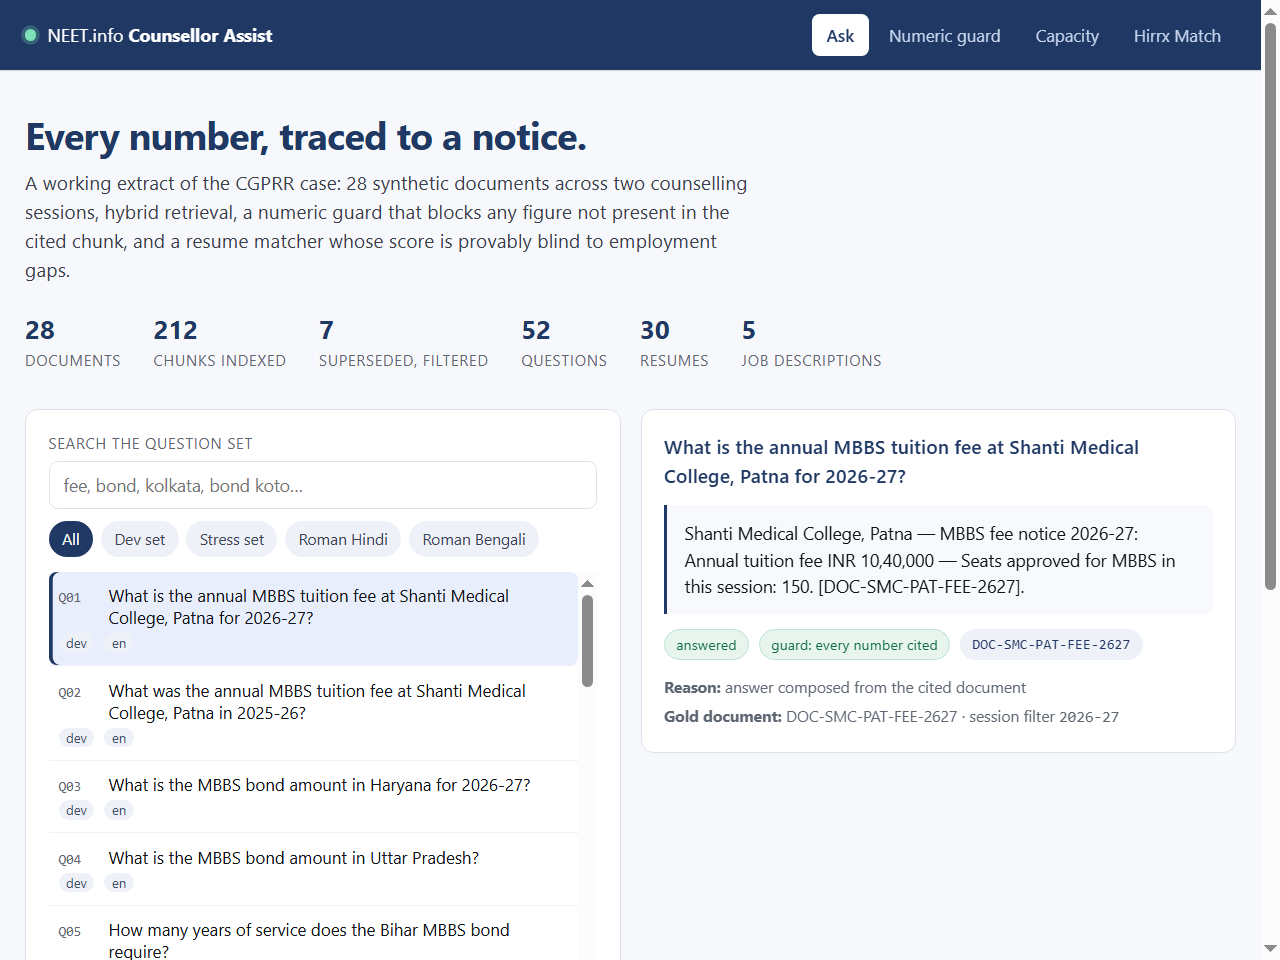
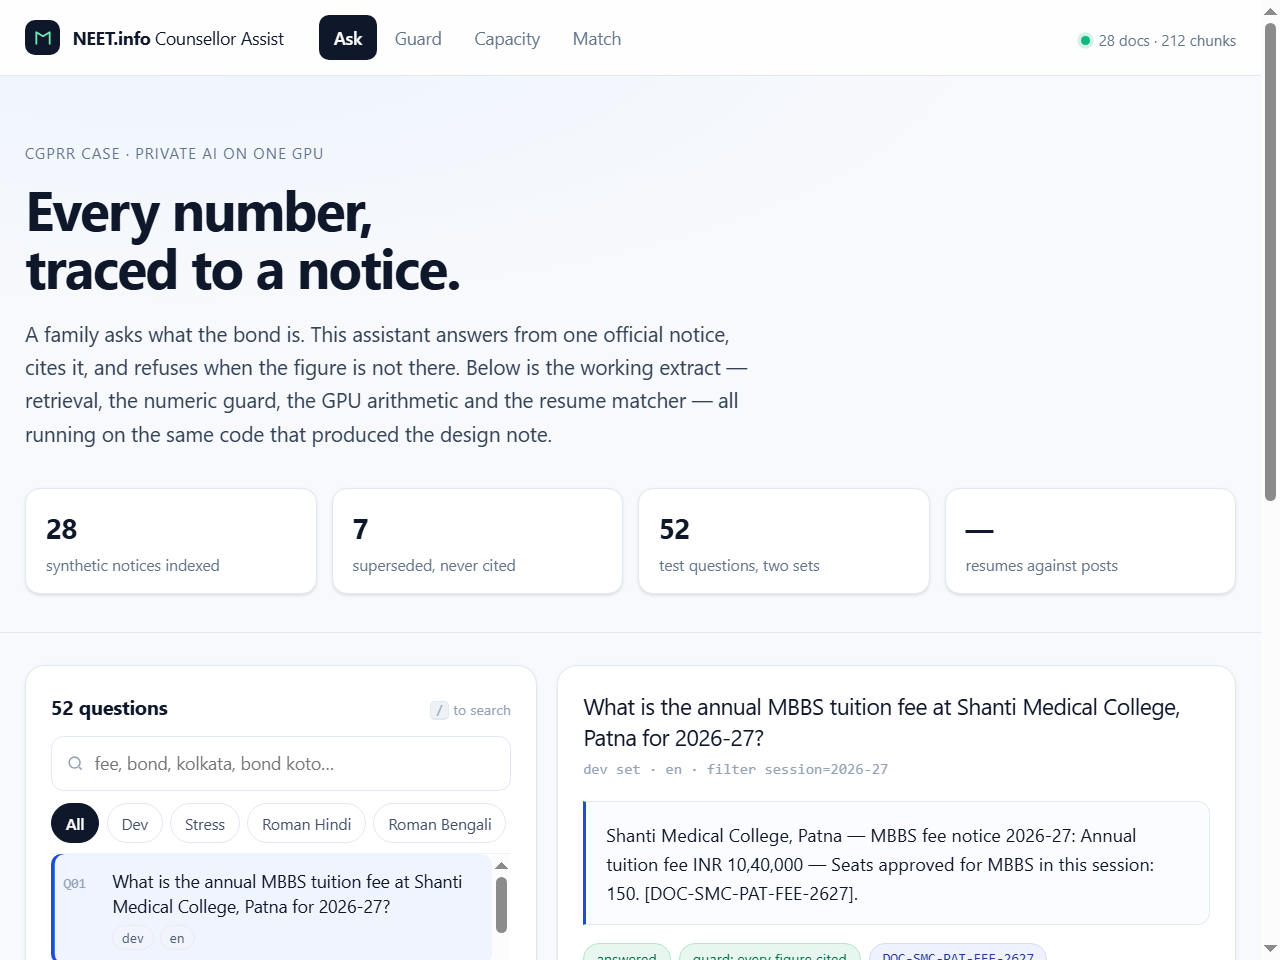
Fix the resume/job stat tile rendering as a dash

diff --git a/site/public/app.js b/site/public/app.js
@@ -84,8 +84,9 @@ function renderFindings() {
     [m.questions, "test questions, two sets"],
     [`${m.resumes} / ${m.jobs}`, "resumes against posts"],
   ];
+  const fmt = (v) => (typeof v === "number" ? inr(v) : String(v));
   $("#findings").innerHTML = items
-    .map(([v, l]) => `<div class="finding"><b>${esc(inr(v))}</b><span>${esc(l)}</span></div>`)
+    .map(([v, l]) => `<div class="finding"><b>${esc(fmt(v))}</b><span>${esc(l)}</span></div>`)
     .join("");
   $("#statusText").textContent = `${m.documents} docs · ${m.chunks} chunks`;
 }
